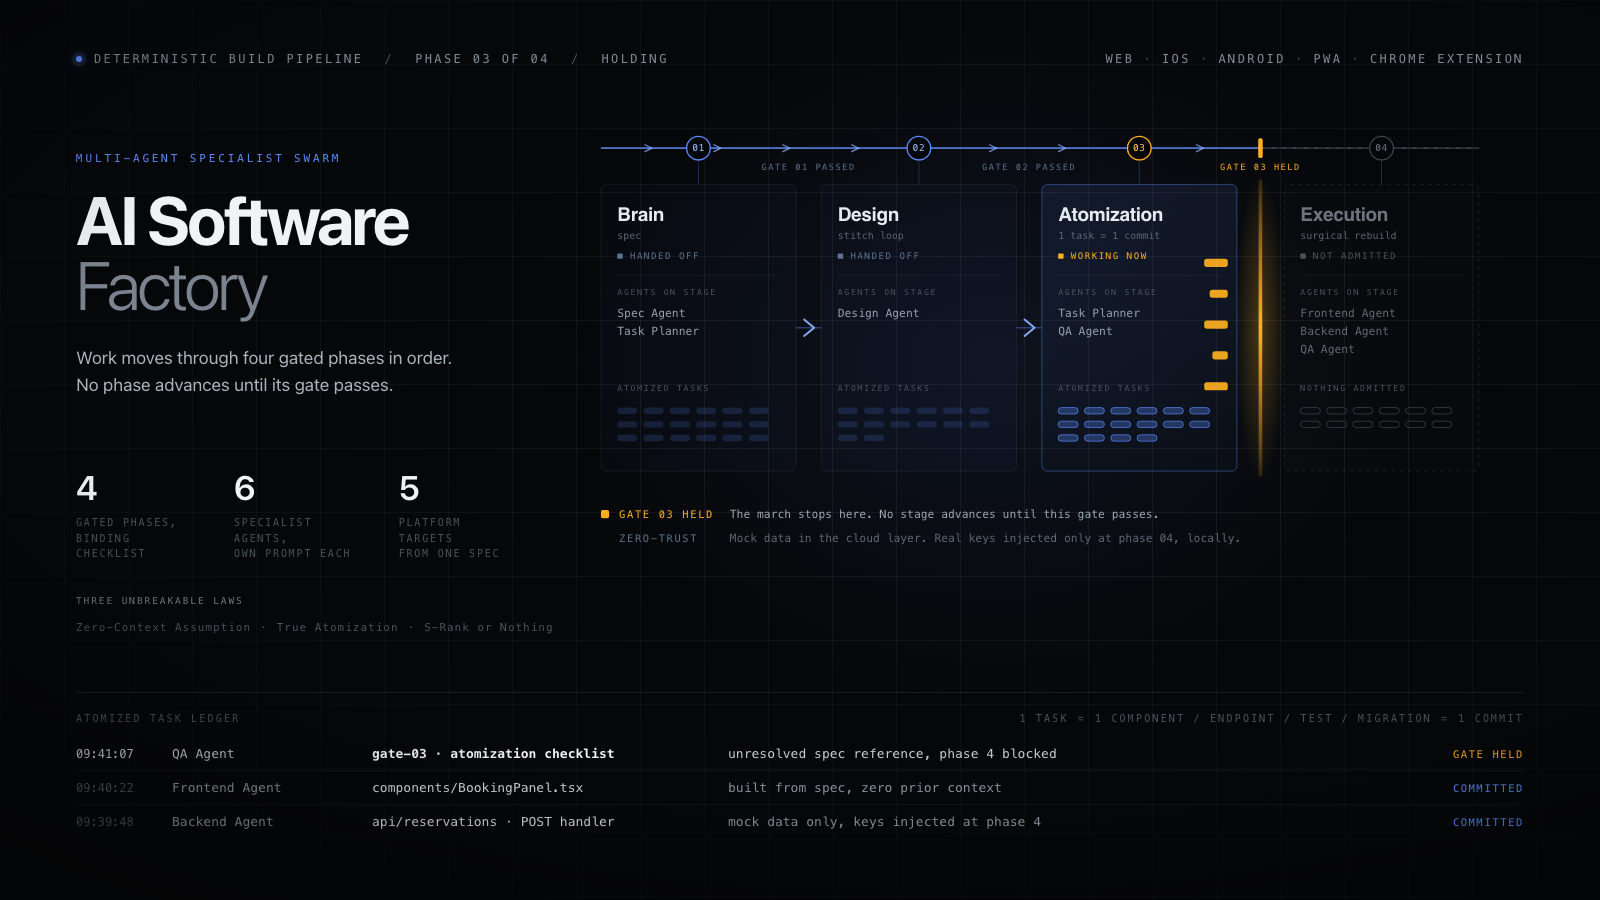
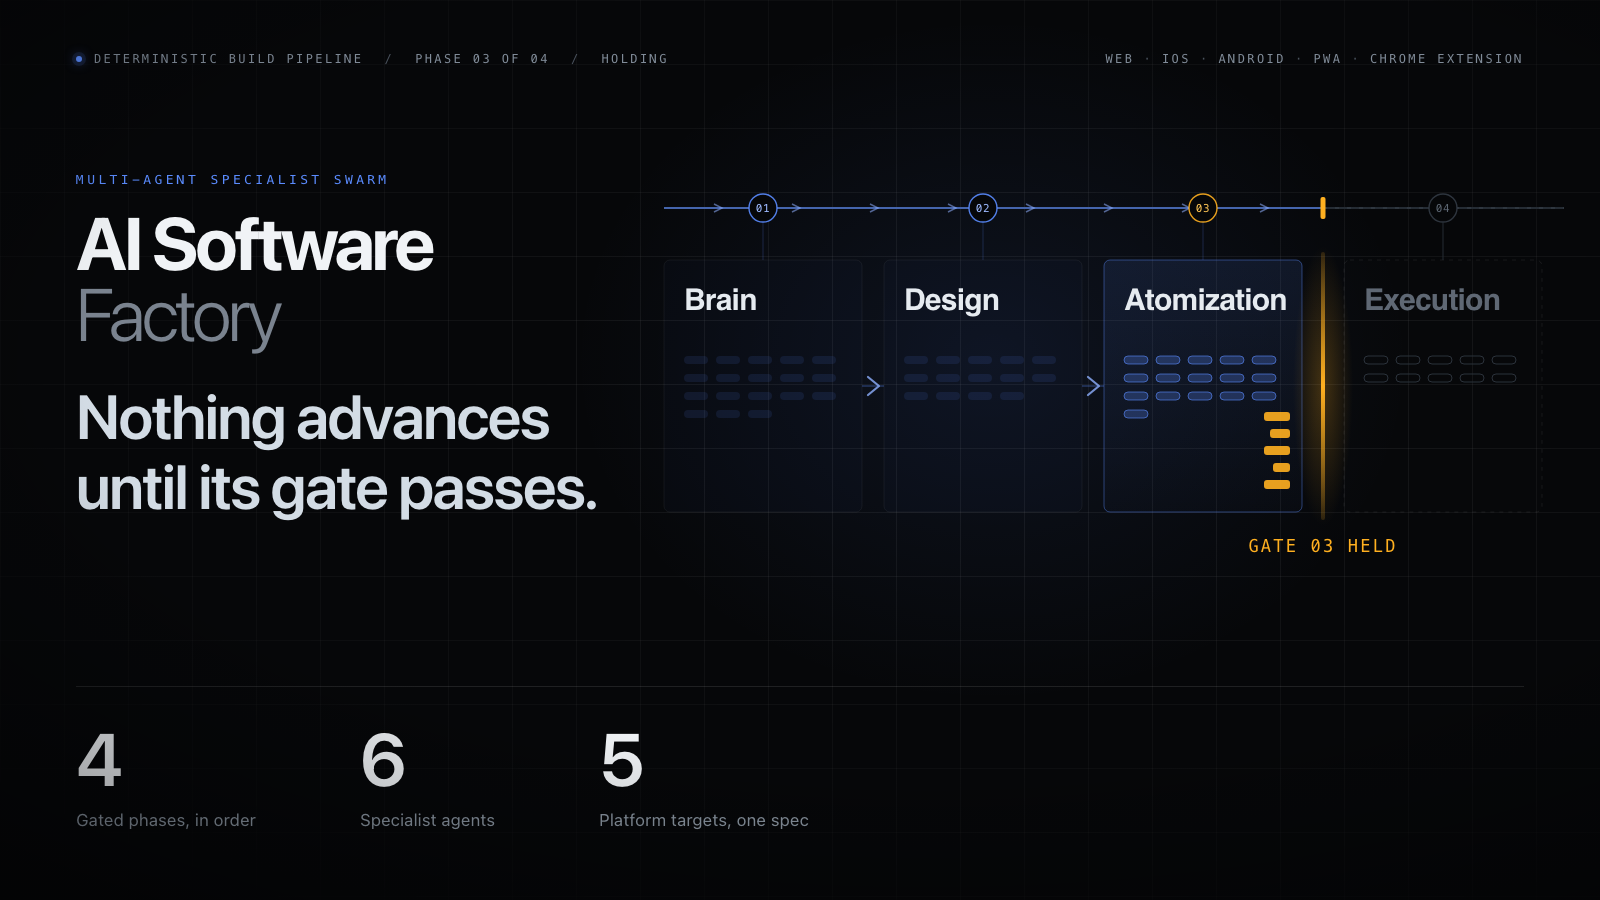
Rebalance AI Software Factory hero so its type reads at card size
Same failure as the Mac Mini Scan hero: strong at 1600x900, grey mush in
the portfolio grid. Give the statement and the figures the weight, and
let the pipeline recede into supporting art.

- Add a 62px statement line carrying the gate rule in plain language
- Move 4 / 6 / 5 to a full-width bottom band at 74px with 17px labels
- Cut the atomized task ledger and the Three Unbreakable Laws block;
  both were sub-12px type that could not survive quarter scale
- Strip the per-stage agent lists, status chips and sub-labels from the
  stage cards, leaving the phase name at 30px and the task chips as
  texture
- Shorten the cards and raise GATE 03 HELD to 17px so the one piece of
  narrative in the art is legible

diff --git a/scripts/heroes/ai-software-factory.html b/scripts/heroes/ai-software-factory.html
@@ -9,10 +9,14 @@
   stage working, gate 03 holding as a wall, and phase 04 empty ahead.
   All geometry is computed in-file. No network or package dependency.
 
-  Phase names, agent names, platform targets and the laws come from
-  app/data/projects.ts. ILLUSTRATIVE (not captured): the per-stage agent
-  assignment, task counts, which gate is holding, the ledger rows and their
-  timestamps and filenames. They show the system's shape, not a real run.
+  Composition rule: a dominant typographic layer (statement + figures) carries
+  the card-size view at ~411px wide; the pipeline is supporting texture.
+  Nothing below ~16px in this 1600px source is load-bearing.
+
+  Phase names, agent count, platform targets and the gate rule come from
+  app/data/projects.ts. ILLUSTRATIVE (not captured from a real run): which
+  gate is holding, the per-stage task counts, and the chip blocks pressed
+  against the gate. They show the system's shape, not a recorded build.
 -->
 <style>
   :root{
@@ -47,44 +51,20 @@
     box-shadow:0 0 0 4px rgba(91,140,255,.13),0 0 12px rgba(91,140,255,.85)}
   .sep{color:var(--dimmer);margin:0 9px}
 
-  .lede{position:absolute;left:76px;top:152px;width:404px}
-  .eyebrow{font-size:11px;letter-spacing:.26em;color:var(--flow);text-transform:uppercase;margin-bottom:22px}
-  h1{font-size:68px;line-height:.96;letter-spacing:-.04em;font-weight:700}
+  .lede{position:absolute;left:76px;top:172px;width:660px}
+  .eyebrow{font-size:13px;letter-spacing:.26em;color:var(--flow);text-transform:uppercase;margin-bottom:20px}
+  h1{font-size:74px;line-height:.96;letter-spacing:-.045em;font-weight:700}
   h1 .thin{color:#7a838f;font-weight:300}
-  .sub{margin-top:26px;font-size:17.5px;line-height:1.56;color:#aab4be;max-width:392px}
+  .sub{margin-top:32px;font-size:62px;line-height:1.12;letter-spacing:-.028em;
+    font-weight:600;color:#d3dce5;max-width:660px}
 
-  .stats{position:absolute;left:76px;top:470px;width:430px;display:flex;gap:44px}
-  .stat .n{font-size:34px;font-weight:600;letter-spacing:-.025em;line-height:1}
-  .stat .n .u{color:#7a838f;font-size:19px;font-weight:400}
-  .stat .k{margin-top:11px;font-size:10px;letter-spacing:.18em;color:var(--dimmer);
-    text-transform:uppercase;line-height:1.55}
+  .stats{position:absolute;left:76px;right:76px;top:686px;
+    border-top:1px solid rgba(255,255,255,.10);padding-top:34px;display:flex;gap:104px}
+  .stat .n{font-size:74px;font-weight:600;letter-spacing:-.035em;line-height:1}
+  .stat .k{margin-top:14px;font-size:17px;letter-spacing:.02em;color:#8b96a2;line-height:1.35}
 
-  .laws{position:absolute;left:76px;top:592px;font-size:11px;letter-spacing:.09em;color:var(--dimmer);line-height:1.9}
-  .laws .h{color:#6f7a86;letter-spacing:.2em;text-transform:uppercase;font-size:9.5px;margin-bottom:8px}
-
-  #pipe{position:absolute;left:556px;top:130px;width:968px;height:430px}
+  #pipe{position:absolute;left:664px;top:186px;width:900px;height:400px}
   #pipe svg{width:100%;height:100%;overflow:visible}
-
-  .callout{position:absolute;font-size:12px;letter-spacing:.02em;color:var(--ink)}
-  .callout .t{color:var(--hold);letter-spacing:.2em;font-size:9.5px;text-transform:uppercase;margin-bottom:7px}
-  .callout .b{color:var(--dim);margin-top:4px;font-size:11.5px}
-
-  #feed{position:absolute;left:76px;right:76px;bottom:62px;border-top:1px solid rgba(255,255,255,.09);padding-top:20px}
-  .fhead{display:flex;justify-content:space-between;font-size:10px;letter-spacing:.22em;
-    color:var(--dimmer);text-transform:uppercase;margin-bottom:13px}
-  .row{display:grid;grid-template-columns:96px 200px 356px 1fr 132px;align-items:center;
-    font-size:13px;padding:9px 0;border-bottom:1px solid rgba(255,255,255,.05);color:#98a3ae}
-  .row:last-child{border-bottom:0}
-  .row .ts{color:var(--dimmer);font-size:12px}
-  .row .task{color:#dde3e9}
-  .row .who{color:#8b96a2}
-  .row .st{justify-self:end;font-size:10.5px;letter-spacing:.15em;text-transform:uppercase}
-  .row.hot .ts{color:#cdd2d7}
-  .row.hot .task{color:#fff;font-weight:600}
-  .row.hot .who{color:#c2ccd5}
-  .st.ok{color:var(--flow)}
-  .st.wait{color:var(--dimmer)}
-  .st.held{color:var(--hold)}
 </style>
 
 <div id="stage">
@@ -99,64 +79,31 @@
   <div class="lede">
     <div class="eyebrow mono">Multi-agent specialist swarm</div>
     <h1>AI Software<br><span class="thin">Factory</span></h1>
-    <div class="sub">Work moves through four gated phases in order. No phase advances until its gate passes.</div>
+    <div class="sub">Nothing advances<br>until its gate passes.</div>
   </div>
 
   <div class="stats">
     <div class="stat">
       <div class="n">4</div>
-      <div class="k mono">Gated phases,<br>binding checklist</div>
+      <div class="k">Gated phases, in order</div>
     </div>
     <div class="stat">
       <div class="n">6</div>
-      <div class="k mono">Specialist agents,<br>own prompt each</div>
+      <div class="k">Specialist agents</div>
     </div>
     <div class="stat">
       <div class="n">5</div>
-      <div class="k mono">Platform targets<br>from one spec</div>
+      <div class="k">Platform targets, one spec</div>
     </div>
   </div>
 
-  <div class="laws mono">
-    <div class="h">Three unbreakable laws</div>
-    <div>Zero-Context Assumption<span class="sep">·</span>True Atomization<span class="sep">·</span>S-Rank or Nothing</div>
-  </div>
-
-  <div id="pipe"><svg id="svg" viewBox="0 0 968 474"></svg></div>
-
-  <div id="feed">
-    <div class="fhead mono">
-      <span>Atomized task ledger</span>
-      <span>1 task<span class="sep">=</span>1 component / endpoint / test / migration<span class="sep">=</span>1 commit</span>
-    </div>
-    <div class="row mono hot">
-      <span class="ts">09:41:07</span>
-      <span class="who">QA Agent</span>
-      <span class="task">gate-03 · atomization checklist</span>
-      <span class="who">unresolved spec reference, phase 4 blocked</span>
-      <span class="st held">Gate held</span>
-    </div>
-    <div class="row mono">
-      <span class="ts">09:40:22</span>
-      <span class="who">Frontend Agent</span>
-      <span class="task">components/BookingPanel.tsx</span>
-      <span class="who">built from spec, zero prior context</span>
-      <span class="st ok">Committed</span>
-    </div>
-    <div class="row mono">
-      <span class="ts">09:39:48</span>
-      <span class="who">Backend Agent</span>
-      <span class="task">api/reservations · POST handler</span>
-      <span class="who">mock data only, keys injected at phase 4</span>
-      <span class="st ok">Committed</span>
-    </div>
-  </div>
+  <div id="pipe"><svg id="svg" viewBox="0 0 900 400"></svg></div>
 
   <div id="vig"></div>
 </div>
 
 <script>
-const W=968,H=430;
+const W=900,H=400;
 const svg=document.getElementById('svg');
 const ns="http://www.w3.org/2000/svg";
 function el(t,a){const e=document.createElementNS(ns,t);for(const k in a)e.setAttribute(k,a[k]);return e;}
@@ -167,123 +114,89 @@ function txt(x,y,s,o){const t=add(el('text',Object.assign({x:x,y:y,'font-family'
 
 const defs=el('defs');
 defs.innerHTML=`
-<radialGradient id="hg"><stop offset="0" stop-color="#ffb020" stop-opacity=".26"/><stop offset="1" stop-color="#ffb020" stop-opacity="0"/></radialGradient>
+<radialGradient id="hg"><stop offset="0" stop-color="#ffb020" stop-opacity=".24"/><stop offset="1" stop-color="#ffb020" stop-opacity="0"/></radialGradient>
 <linearGradient id="gateg" x1="0" y1="0" x2="0" y2="1">
   <stop offset="0" stop-color="#ffb020" stop-opacity=".15"/><stop offset=".5" stop-color="#ffb020" stop-opacity="1"/>
   <stop offset="1" stop-color="#ffb020" stop-opacity=".15"/></linearGradient>
 <linearGradient id="cur" x1="0" y1="0" x2="0" y2="1">
-  <stop offset="0" stop-color="#5b8cff" stop-opacity=".10"/><stop offset="1" stop-color="#5b8cff" stop-opacity=".02"/></linearGradient>`;
+  <stop offset="0" stop-color="#5b8cff" stop-opacity=".11"/><stop offset="1" stop-color="#5b8cff" stop-opacity=".02"/></linearGradient>`;
 add(defs);
 
 /* ---- stage geometry: an ordered left-to-right march --------------------- */
-const CW=215, G=[28,28,52];                 // card width, then the three gaps
+const CW=198, G=[22,22,42];
 const X=[0]; X.push(X[0]+CW+G[0]); X.push(X[1]+CW+G[1]); X.push(X[2]+CW+G[2]);
-const CY=60, CH=316, CB=CY+CH;
-const gapC=i=>X[i]+CW+G[i]/2;               // centre of gap i
+const CY=74, CH=252, CB=CY+CH;
+const gapC=i=>X[i]+CW+G[i]/2;
 const GX=gapC(2);                           // the held gate
 
 /* state: 2 = done and handed off, 1 = working now, 0 = not started */
 const STAGES=[
-  {n:'01',name:'Brain',      sub:'spec',              st:2, status:'HANDED OFF',
-   agents:['Spec Agent','Task Planner'],   work:18},
-  {n:'02',name:'Design',     sub:'stitch loop',       st:2, status:'HANDED OFF',
-   agents:['Design Agent'],                work:14},
-  {n:'03',name:'Atomization',sub:'1 task = 1 commit', st:1, status:'WORKING NOW',
-   agents:['Task Planner','QA Agent'],     work:16},
-  {n:'04',name:'Execution',  sub:'surgical rebuild',  st:0, status:'NOT ADMITTED',
-   agents:['Frontend Agent','Backend Agent','QA Agent'], work:0}
+  {n:'01',name:'Brain',       st:2, work:18},
+  {n:'02',name:'Design',      st:2, work:14},
+  {n:'03',name:'Atomization', st:1, work:16},
+  {n:'04',name:'Execution',   st:0, work:0}
 ];
 
-/* ---- progress spine: the direction of travel, stated once and clearly --- */
-const SY=20;
-add(el('line',{x1:0,y1:SY,x2:W,y2:SY,stroke:'#2b323b','stroke-width':2}));
-add(el('line',{x1:0,y1:SY,x2:GX,y2:SY,stroke:'#5b8cff','stroke-width':2,'stroke-opacity':.75}));
-for(let x=52;x<GX-24;x+=76)
+/* ---- progress spine ----------------------------------------------------- */
+const SY=22;
+add(el('line',{x1:0,y1:SY,x2:W,y2:SY,stroke:'#252c34','stroke-width':2}));
+add(el('line',{x1:0,y1:SY,x2:GX,y2:SY,stroke:'#5b8cff','stroke-width':2,'stroke-opacity':.6}));
+for(let x=54;x<GX-24;x+=78)
   add(el('path',{d:`M${x-4} ${SY-4} L${x+4} ${SY} L${x-4} ${SY+4}`,fill:'none',
-    stroke:'#8fb0ff','stroke-width':1.5,'stroke-opacity':.75}));
-add(el('line',{x1:GX,y1:SY,x2:W,y2:SY,stroke:'#3a424c','stroke-width':2,'stroke-dasharray':'4 8'}));
+    stroke:'#8fb0ff','stroke-width':1.5,'stroke-opacity':.55}));
+add(el('line',{x1:GX,y1:SY,x2:W,y2:SY,stroke:'#2f3740','stroke-width':2,'stroke-dasharray':'4 8'}));
 
-/* ---- stage cards -------------------------------------------------------- */
+/* ---- stage cards: name + the work, nothing smaller ---------------------- */
 STAGES.forEach((s,i)=>{
-  const x=X[i], done=s.st===2, now=s.st===1, off=s.st===0;
+  const x=X[i], now=s.st===1, off=s.st===0;
   add(el('rect',{x:x,y:CY,width:CW,height:CH,rx:6,
-    fill:now?'url(#cur)':(off?'rgba(255,255,255,.010)':'rgba(91,140,255,.030)'),
-    stroke:now?'rgba(91,140,255,.45)':(off?'rgba(255,255,255,.10)':'rgba(255,255,255,.075)'),
+    fill:now?'url(#cur)':(off?'rgba(255,255,255,.008)':'rgba(91,140,255,.022)'),
+    stroke:now?'rgba(91,140,255,.42)':(off?'rgba(255,255,255,.075)':'rgba(255,255,255,.055)'),
     'stroke-width':1,'stroke-dasharray':off?'4 5':'none'}));
 
-  const px=x+18;
-  // node number sitting on the spine, tying each card to its place in the order
-  const nx=x+CW/2;
-  add(el('circle',{cx:nx,cy:SY,r:13,fill:'#060709',
-    stroke:off?'#3a424c':(now?'#ffb020':'#5b8cff'),'stroke-width':1.4}));
-  const nn=add(el('text',{x:nx,y:SY+3.6,'text-anchor':'middle','font-family':MONO,'font-size':10.5,
-    'letter-spacing':.6,fill:off?'#68727e':(now?'#ffc655':'#9dbaff')}));
+  const px=x+20, nx=x+CW/2;
+  add(el('circle',{cx:nx,cy:SY,r:14,fill:'#060709',
+    stroke:off?'#333b45':(now?'#ffb020':'#5b8cff'),'stroke-width':1.4,'stroke-opacity':.9}));
+  const nn=add(el('text',{x:nx,y:SY+4,'text-anchor':'middle','font-family':MONO,'font-size':11,
+    'letter-spacing':.6,fill:off?'#5c6672':(now?'#ffc655':'#9dbaff')}));
   nn.textContent=s.n;
-  add(el('line',{x1:nx,y1:SY+13,x2:nx,y2:CY,stroke:off?'#2b323b':'rgba(91,140,255,.30)','stroke-width':1}));
+  add(el('line',{x1:nx,y1:SY+14,x2:nx,y2:CY,stroke:off?'#252c34':'rgba(91,140,255,.22)','stroke-width':1}));
 
-  // title
-  const t=add(el('text',{x:px,y:CY+40,fill:off?'#6b747f':'#e6ebf0','font-size':21,
-    'font-family':SANS,'font-weight':600,'letter-spacing':-.4}));
+  const t=add(el('text',{x:px,y:CY+50,fill:off?'#5f6874':'#e6ebf0','font-size':30,
+    'font-family':SANS,'font-weight':600,'letter-spacing':-.8}));
   t.textContent=s.name;
-  txt(px,CY+60,s.sub,{fill:'#5c6672','font-size':11});
 
-  // status
-  const sc=now?'#ffb020':(off?'#4a525d':'#5b7290');
-  add(el('rect',{x:px,y:CY+76,width:6,height:6,rx:1,fill:sc}));
-  txt(px+14,CY+82,s.status,{fill:sc,'font-size':10,'letter-spacing':1.7});
-
-  add(el('line',{x1:px,y1:CY+100,x2:x+CW-18,y2:CY+100,stroke:'rgba(255,255,255,.07)','stroke-width':1}));
-
-  // who is on this stage
-  txt(px,CY+122,'AGENTS ON STAGE',{fill:'#4a525d','font-size':9,'letter-spacing':1.9});
-  s.agents.forEach((a,k)=>txt(px,CY+146+k*20,a,{fill:off?'#5f6874':'#95a0ab','font-size':12.5}));
-
-  // the work itself
-  const wy=CY+228;
-  txt(px,wy,off?'NOTHING ADMITTED':'ATOMIZED TASKS',{fill:'#4a525d','font-size':9,'letter-spacing':1.9});
-  const CWD=22,CHT=7,GAPX=7,GAPY=8,PER=6;
-  for(let k=0;k<(off?12:s.work);k++){
-    const cx=px+(k%PER)*(CWD+GAPX), cy=wy+18+Math.floor(k/PER)*(CHT+GAPY);
-    if(off) add(el('rect',{x:cx,y:cy,width:CWD,height:CHT,rx:3.5,fill:'none',
-      stroke:'#333b45','stroke-width':1}));
-    else if(now) add(el('rect',{x:cx,y:cy,width:CWD,height:CHT,rx:3.5,fill:'#5b8cff','fill-opacity':.30,
-      stroke:'#5b8cff','stroke-width':1,'stroke-opacity':.75}));
-    else add(el('rect',{x:cx,y:cy,width:CWD,height:CHT,rx:3.5,fill:'#5b8cff','fill-opacity':.16}));
+  // the work itself, as texture
+  const wy=CY+96, CWD=24,CHT=8,GAPX=8,GAPY=10,PER=5;
+  for(let k=0;k<(off?10:s.work);k++){
+    const cx=px+(k%PER)*(CWD+GAPX), cy=wy+Math.floor(k/PER)*(CHT+GAPY);
+    if(off) add(el('rect',{x:cx,y:cy,width:CWD,height:CHT,rx:4,fill:'none',
+      stroke:'#2b323b','stroke-width':1}));
+    else if(now) add(el('rect',{x:cx,y:cy,width:CWD,height:CHT,rx:4,fill:'#5b8cff','fill-opacity':.26,
+      stroke:'#5b8cff','stroke-width':1,'stroke-opacity':.6}));
+    else add(el('rect',{x:cx,y:cy,width:CWD,height:CHT,rx:4,fill:'#5b8cff','fill-opacity':.11}));
   }
 });
 
 /* ---- handoffs between stages ------------------------------------------- */
 [0,1].forEach(i=>{
   const cx=gapC(i), my=CY+CH/2;
-  add(el('line',{x1:X[i]+CW,y1:my,x2:X[i+1],y2:my,stroke:'#5b8cff','stroke-width':1.4,'stroke-opacity':.45}));
+  add(el('line',{x1:X[i]+CW,y1:my,x2:X[i+1],y2:my,stroke:'#5b8cff','stroke-width':1.4,'stroke-opacity':.35}));
   add(el('path',{d:`M${cx-5} ${my-9} L${cx+6} ${my} L${cx-5} ${my+9}`,fill:'none',
-    stroke:'#8fb0ff','stroke-width':2.2,'stroke-opacity':.95,'stroke-linecap':'round','stroke-linejoin':'round'}));
-  const l=add(el('text',{x:cx,y:44,'text-anchor':'middle','font-family':MONO,'font-size':9.5,
-    'letter-spacing':1.7,fill:'#5b7290'}));
-  l.textContent='GATE 0'+(i+1)+' PASSED';
+    stroke:'#8fb0ff','stroke-width':2.2,'stroke-opacity':.8,'stroke-linecap':'round','stroke-linejoin':'round'}));
 });
 
 /* ---- gate 03: the wall the march has stacked against -------------------- */
-add(el('rect',{x:GX-28,y:CY-12,width:56,height:CH+24,fill:'url(#hg)'}));
+add(el('rect',{x:GX-30,y:CY-14,width:60,height:CH+28,fill:'url(#hg)'}));
 add(el('rect',{x:GX-2.5,y:SY-11,width:5,height:22,rx:2,fill:'#ffb020'}));
-add(el('rect',{x:GX-2,y:CY-6,width:4,height:CH+12,rx:2,fill:'url(#gateg)'}));
-const hl=add(el('text',{x:GX,y:44,'text-anchor':'middle','font-family':MONO,'font-size':9.5,
-  'letter-spacing':1.7,fill:'#ffb020'}));
+add(el('rect',{x:GX-2,y:CY-8,width:4,height:CH+16,rx:2,fill:'url(#gateg)'}));
+const hl=add(el('text',{x:GX,y:CB+40,'text-anchor':'middle','font-family':MONO,'font-size':17,
+  'letter-spacing':2.2,fill:'#ffb020'}));
 hl.textContent='GATE 03 HELD';
 // work pressed up against it, on the near side only
-const QR=X[2]+CW-10;                       // stage 03's right edge
+const QR=X[2]+CW-12;
 [26,20,26,17,26].forEach((w,k)=>
-  add(el('rect',{x:QR-w,y:CY+82+k*34,width:w,height:9,rx:3,fill:'#ffb020','fill-opacity':.92})));
-
-/* ---- band below --------------------------------------------------------- */
-const B1=CB+52, B2=B1+26;
-add(el('rect',{x:0,y:B1-9,width:9,height:9,rx:2,fill:'#ffb020'}));
-txt(20,B1,'GATE 03 HELD',{fill:'#ffb020','font-size':11.5,'letter-spacing':1.8});
-txt(142,B1,'The march stops here. No stage advances until this gate passes.',
-  {fill:'#9aa5b0','font-size':12.5});
-txt(20,B2,'ZERO-TRUST',{fill:'#5b7290','font-size':11.5,'letter-spacing':1.8});
-txt(142,B2,'Mock data in the cloud layer. Real keys injected only at phase 04, locally.',
-  {fill:'#5c6672','font-size':12.5});
+  add(el('rect',{x:QR-w,y:CY+152+k*17,width:w,height:9,rx:3,fill:'#ffb020','fill-opacity':.9})));
 
 document.body.setAttribute('data-ready','1');
 </script>
